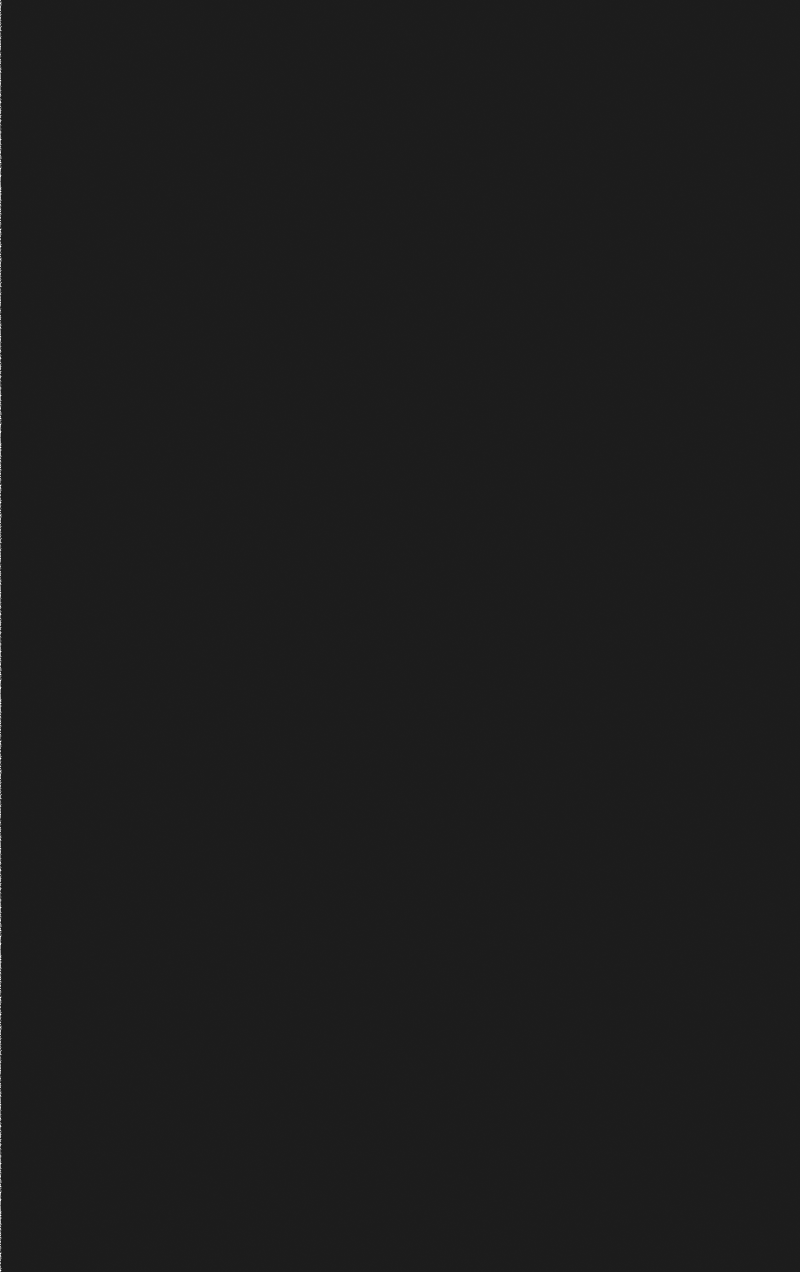
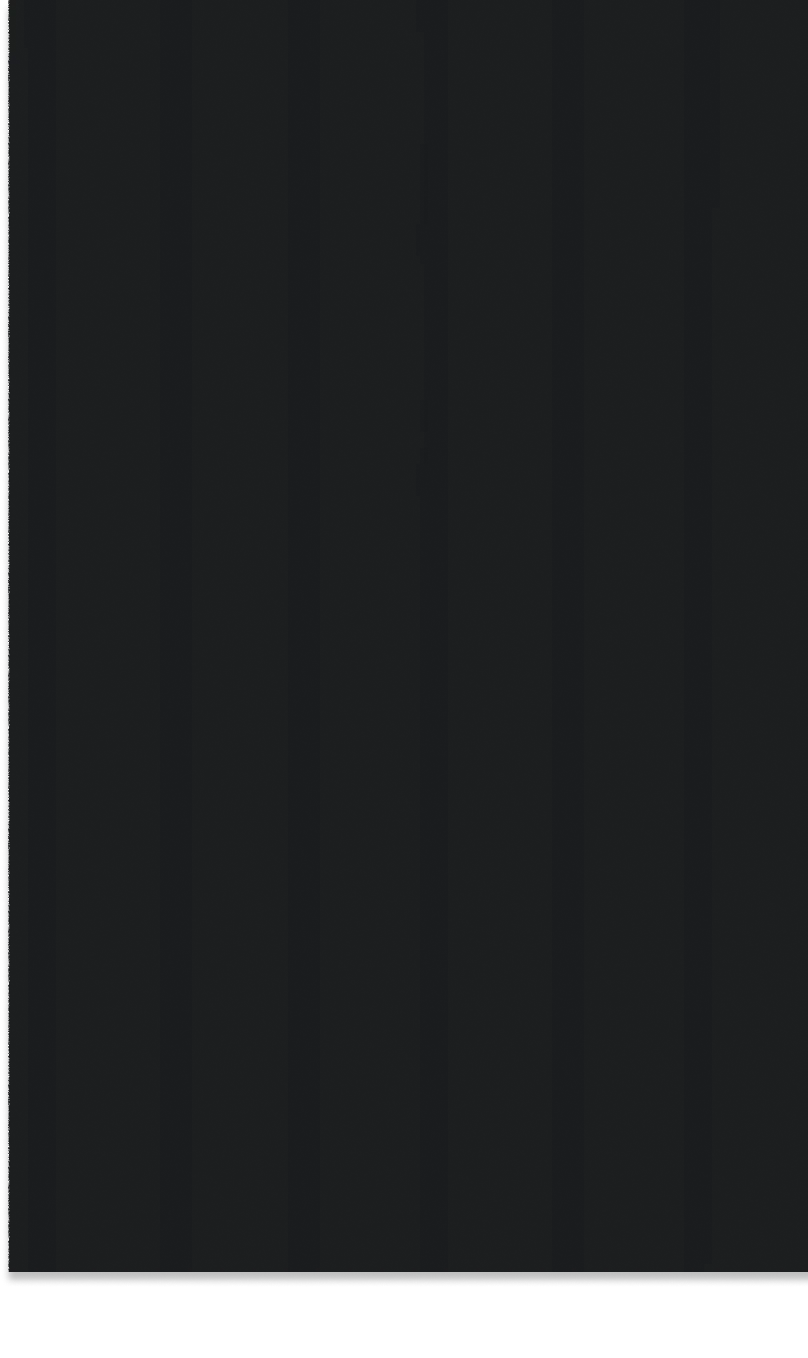
поміняв вебп на неоптимізований

Changed region(s): [[0.0, 0.0, 1.0, 1.0]]

diff --git a/src/css/work-together.css b/src/css/work-together.css
@@ -257,8 +257,8 @@ textarea::-webkit-scrollbar {
     max-width: 1440px;
     background-image: url(/images/together/footer-desktop.png);
     background-position: top 0 right -60px;
-    background-image: -webkit-image-set('/images/together/footer-desktop.webp');
-    background-image: image-set('/images/together/footer-desktop.webp');
+    /* background-image: -webkit-image-set('/images/together/footer-desktop.webp');
+    background-image: image-set('/images/together/footer-desktop.webp'); */
   }
 
   @media screen and (min-resolution: 192dpi),
